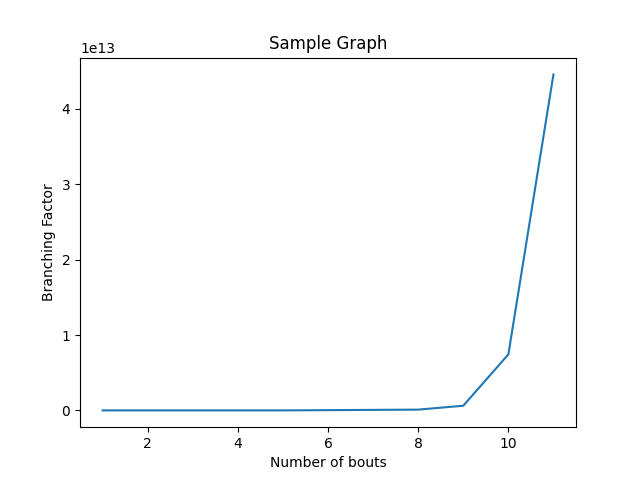
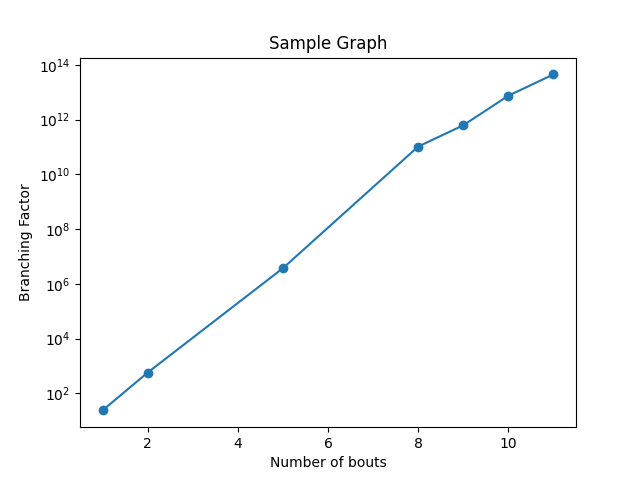
updated script for the bf image

diff --git a/Durak-AI/CLI/Scripts/branching_factor.py b/Durak-AI/CLI/Scripts/branching_factor.py
@@ -14,8 +14,7 @@ y = list(values.values())
 print(f"X: {x}")
 print(f"Y: {y}")
 
-# Create the plot
-plt.plot(x, y)
+plt.semilogy(x, y, base=10, marker='o')
 
 # Add a title and labels to the x and y axes
 plt.title('Sample Graph')
